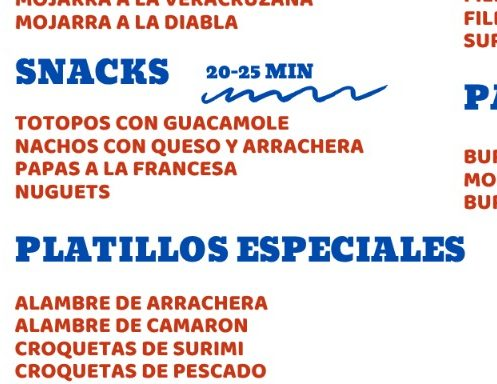
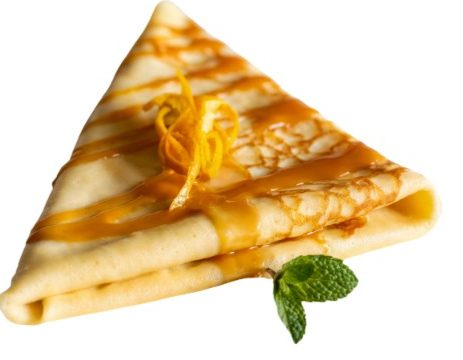
**Corrección de tarjetas Café y Crepas Flambeadas — completa** - Causa del problema: las rutas eran correctas (/images/foto-cafe.jpg y /images/foto-postre.jpg), pero esos archivos se habían recortado del archivo equivocado — al descargar tus imágenes, el archivo llamado menu-cafe-postres.jpeg en rea

diff --git a/backend/crop_photos.py b/backend/crop_photos.py
@@ -12,8 +12,8 @@ def crop_frac(src, box_frac, out, size=640):
     im.save(os.path.join(IMG, out), "JPEG", quality=82, optimize=True)
     print(out, im.size)
 
-crop_frac("menu-cafe-postres.jpeg", (0.10, 0.16, 0.48, 0.40), "foto-cafe.jpg")
-crop_frac("menu-cafe-postres.jpeg", (0.04, 0.54, 0.48, 0.78), "foto-postre.jpg")
+crop_frac("menu-comida.jpeg", (0.10, 0.16, 0.455, 0.38), "foto-cafe.jpg")
+crop_frac("menu-comida.jpeg", (0.07, 0.555, 0.48, 0.78), "foto-postre.jpg")
 crop_frac("menu-bebidas.jpeg", (0.18, 0.70, 0.42, 0.90), "foto-michelada.jpg")
 crop_frac("menu-bebidas.jpeg", (0.68, 0.78, 0.88, 0.96), "foto-cerveza.jpg")
 

diff --git a/memory/PRD.md b/memory/PRD.md
@@ -24,6 +24,7 @@ Convertir el menú físico del restaurante Los Andariegos (Buffet Mar y Tierra) 
 
 ## Implementado (2026-09-10)
 - Actualización del apartado de bebidas según nueva imagen oficial: CERVEZA renovada (entran Pacífico $76, Negra Modelo $89, Modelo Especial $89, Corona $69, Victoria $69, Andariega de Camarón 960 ml $249; sale Indio, Tecate, XX Lager, XX Ambar, Heineken, Bohemia Clara/Obscura, Camarochela 1 LT; Ultra $75→$89). Bebidas, Coctelería y Cebadas quedaron idénticas.
+- Corrección de tarjetas CAFÉ y CREPAS FLAMBEADAS: los archivos descargados del menú estaban intercambiados (menu-cafe-postres.jpeg contiene la página de comida y menu-comida.jpeg la de café/postres); se re-cortaron las fotos reales desde la página correcta eliminando fragmentos de texto.
 - Portada con logo oficial, revelado animado "BUFFET MAR Y TIERRA" y botón "Ver menú".
 - Barra de categorías sticky, deslizable, con estado activo por IntersectionObserver y scroll suave con lenis.
 - Las 18 categorías completas con productos, precios y tiempos de preparación verificados contra las imágenes originales.
